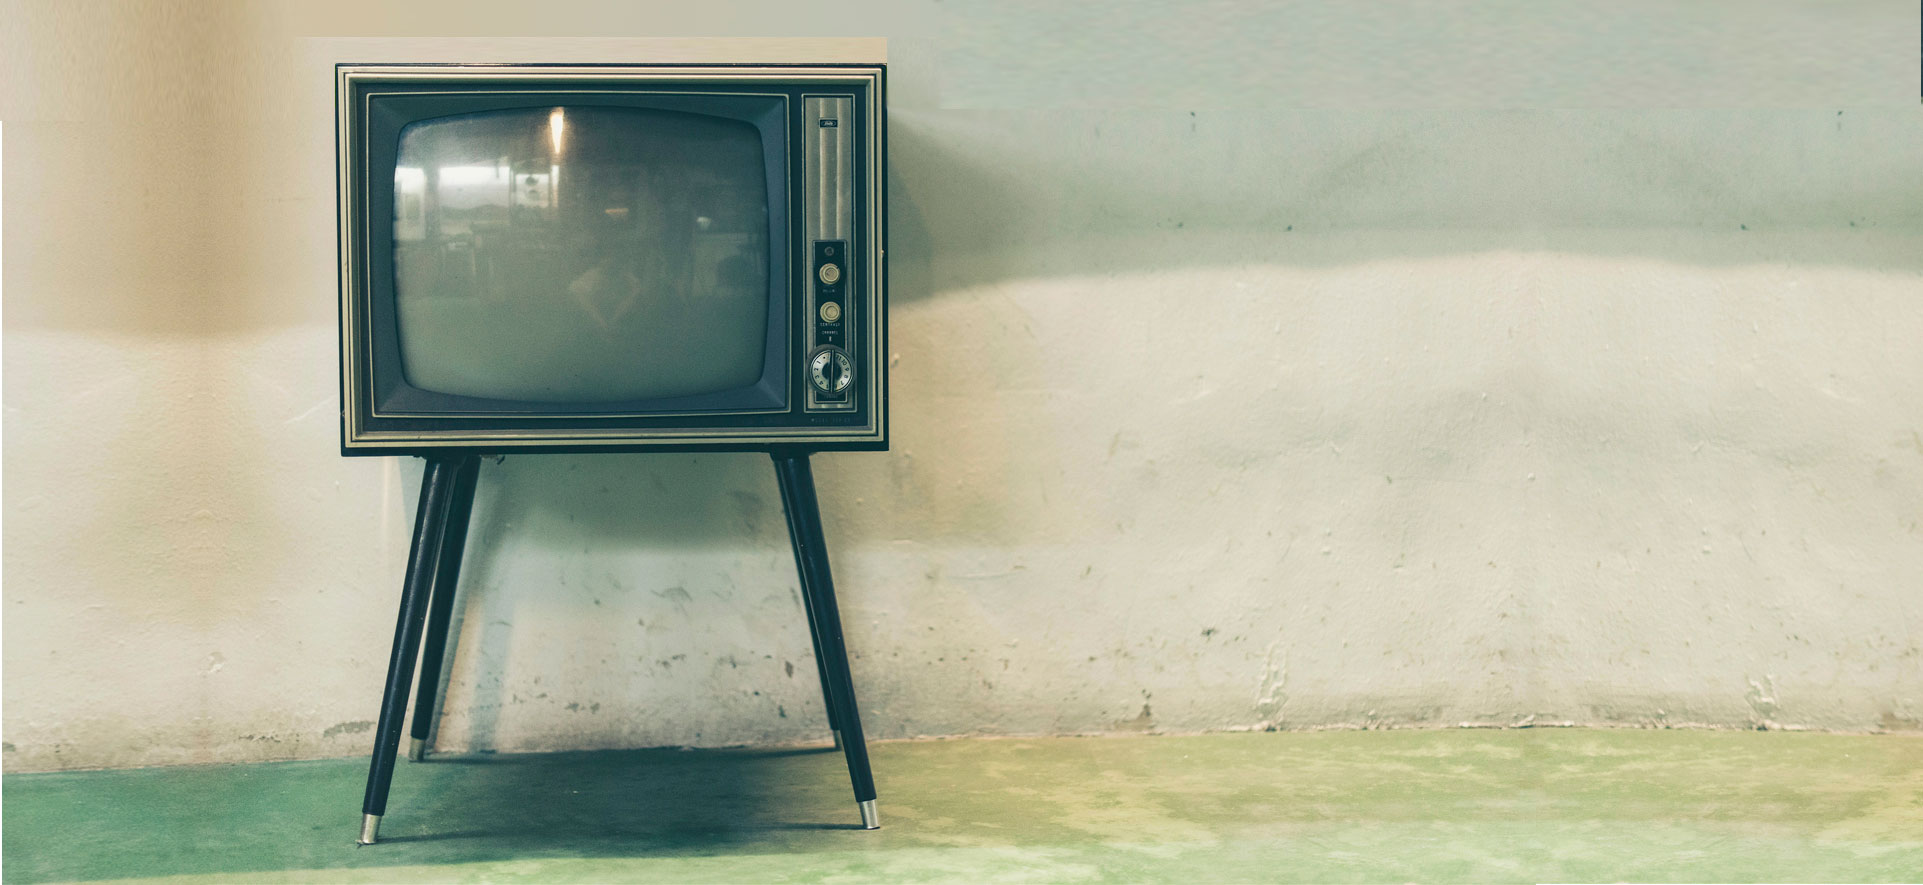
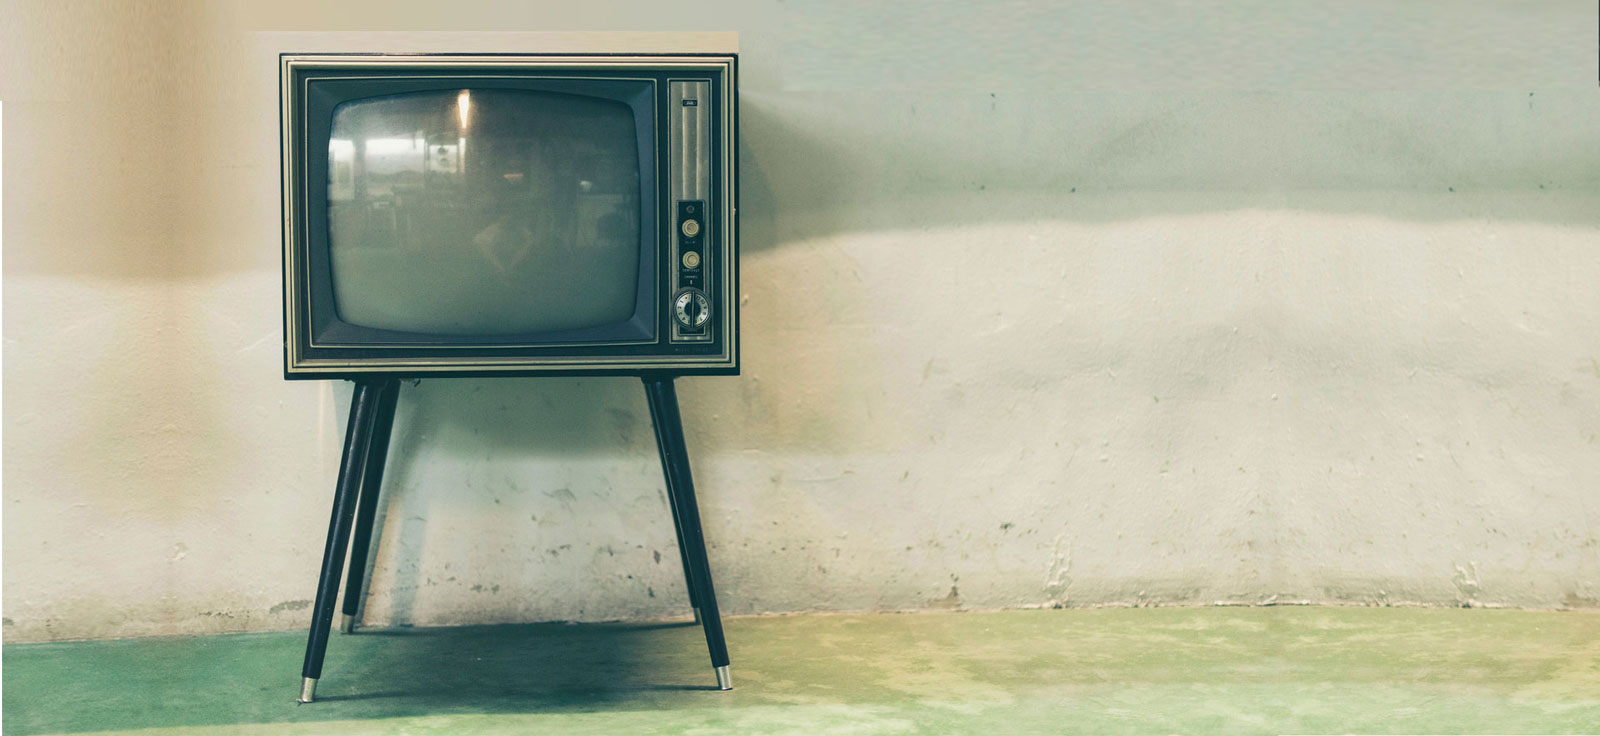
Optimize images; Responsive welcome component

Changed region(s): [[0.1562, 0.0625, 0.4688, 0.5312], [0.1875, 0.7812, 0.2188, 0.8125]]

diff --git a/src/client/components/WelcomeScreen/WelcomeScreen.scss b/src/client/components/WelcomeScreen/WelcomeScreen.scss
@@ -1,9 +1,18 @@
 @import '../../../core/styles/variables';
+@import '../../../core/styles/mixins';
 
 .WelcomeScreen {
     background-color: #fff;
-    background-image: url('../../../../static/images/backgrounds/cover.jpg');
+    background-image: url('../../../../static/images/backgrounds/cover_comp_mobile.jpg');
     background-size: cover;
+    background-position-y: 80%;
+    background-repeat: no-repeat;
+
+    @include respond-to(tablet) {
+        background-image: url('../../../../static/images/backgrounds/cover_comp.jpg');
+        background-size: auto 100%;
+        background-position-x: 45%;
+    }
 
     &__content {
 
@@ -12,19 +21,20 @@
     .cover {
         display: flex;
         flex-direction: column;
-        justify-content: center;
-
         min-height: 100vh;
 
-        background-image: url('../../../../static/images/backgrounds/cover_comp.png');
-        background-repeat: no-repeat;
-        background-size: 50%;
-        background-position-x: 85%;
-        background-position-y: 80%;
+        @include respond-to(tablet) {
+            justify-content: center;
+        }
 
         &__content {
+            padding: 90px 0 0 20px;
             width: 80%;
             align-self: center;
+
+            @include respond-to(tablet) {
+                padding: 0;
+            }
         }
 
         &__title {
@@ -35,7 +45,11 @@
             letter-spacing: 2px;
             text-transform: uppercase;
 
-            font-size: $font_size_extra;
+            font-size: $font_size_xxl;
+
+            @include respond-to(tablet) {
+                font-size: $font_size_extra;
+            }
 
             &:before {
                 content: '';
@@ -74,23 +88,33 @@
         }
 
         &__caption {
-            margin-bottom: 22px;
+            margin-bottom: 10px;
 
             text-transform: uppercase;
-            font-size: $font_size_xl;
+            font-size: $font_size_m;
+
+            @include respond-to(tablet) {
+                font-size: $font_size_xl;
+                margin-bottom: 22px;
+            }
         }
 
         &__enroll {
         }
 
         &__enroll-btn {
-            padding: 10px 25px;
+            padding: 5px 15px;
 
             color: #fff;
             letter-spacing: 1px;
             text-transform: uppercase;
             font-family: ACLine;
-            font-size: $font_size_l;
+            font-size: $font_size_m;
+
+            @include respond-to(tablet) {
+                padding: 10px 25px;
+                font-size: $font_size_l;
+            }
 
             border: none;
             border-radius: 4px;

diff --git a/src/client/components/About/About.scss b/src/client/components/About/About.scss
@@ -6,7 +6,7 @@
     &__header {
         padding: 30px;
 
-        background: #3f5525 url('../../../../static/images/backgrounds/contacts_header.png');
+        background: #3f5525 url('../../../../static/images/backgrounds/contacts_header.jpg');
 
         color: $white;
         font-size: $font_size_xxl;

diff --git a/src/client/components/Contacts/Contacts.scss b/src/client/components/Contacts/Contacts.scss
@@ -5,7 +5,7 @@
     &__header {
         padding: 30px;
 
-        background: #3f5525 url('../../../../static/images/backgrounds/contacts_header.png');
+        background: #3f5525 url('../../../../static/images/backgrounds/contacts_header.jpg');
 
         color: $white;
         font-size: $font_size_xxl;

diff --git a/src/client/components/Reviews/Reviews.scss b/src/client/components/Reviews/Reviews.scss
@@ -5,7 +5,7 @@
     &__header {
         padding: 30px;
 
-        background: #3f5525 url('../../../../static/images/backgrounds/contacts_header.png');
+        background: #3f5525 url('../../../../static/images/backgrounds/contacts_header.jpg');
 
         color: $white;
         font-size: $font_size_xxl;
